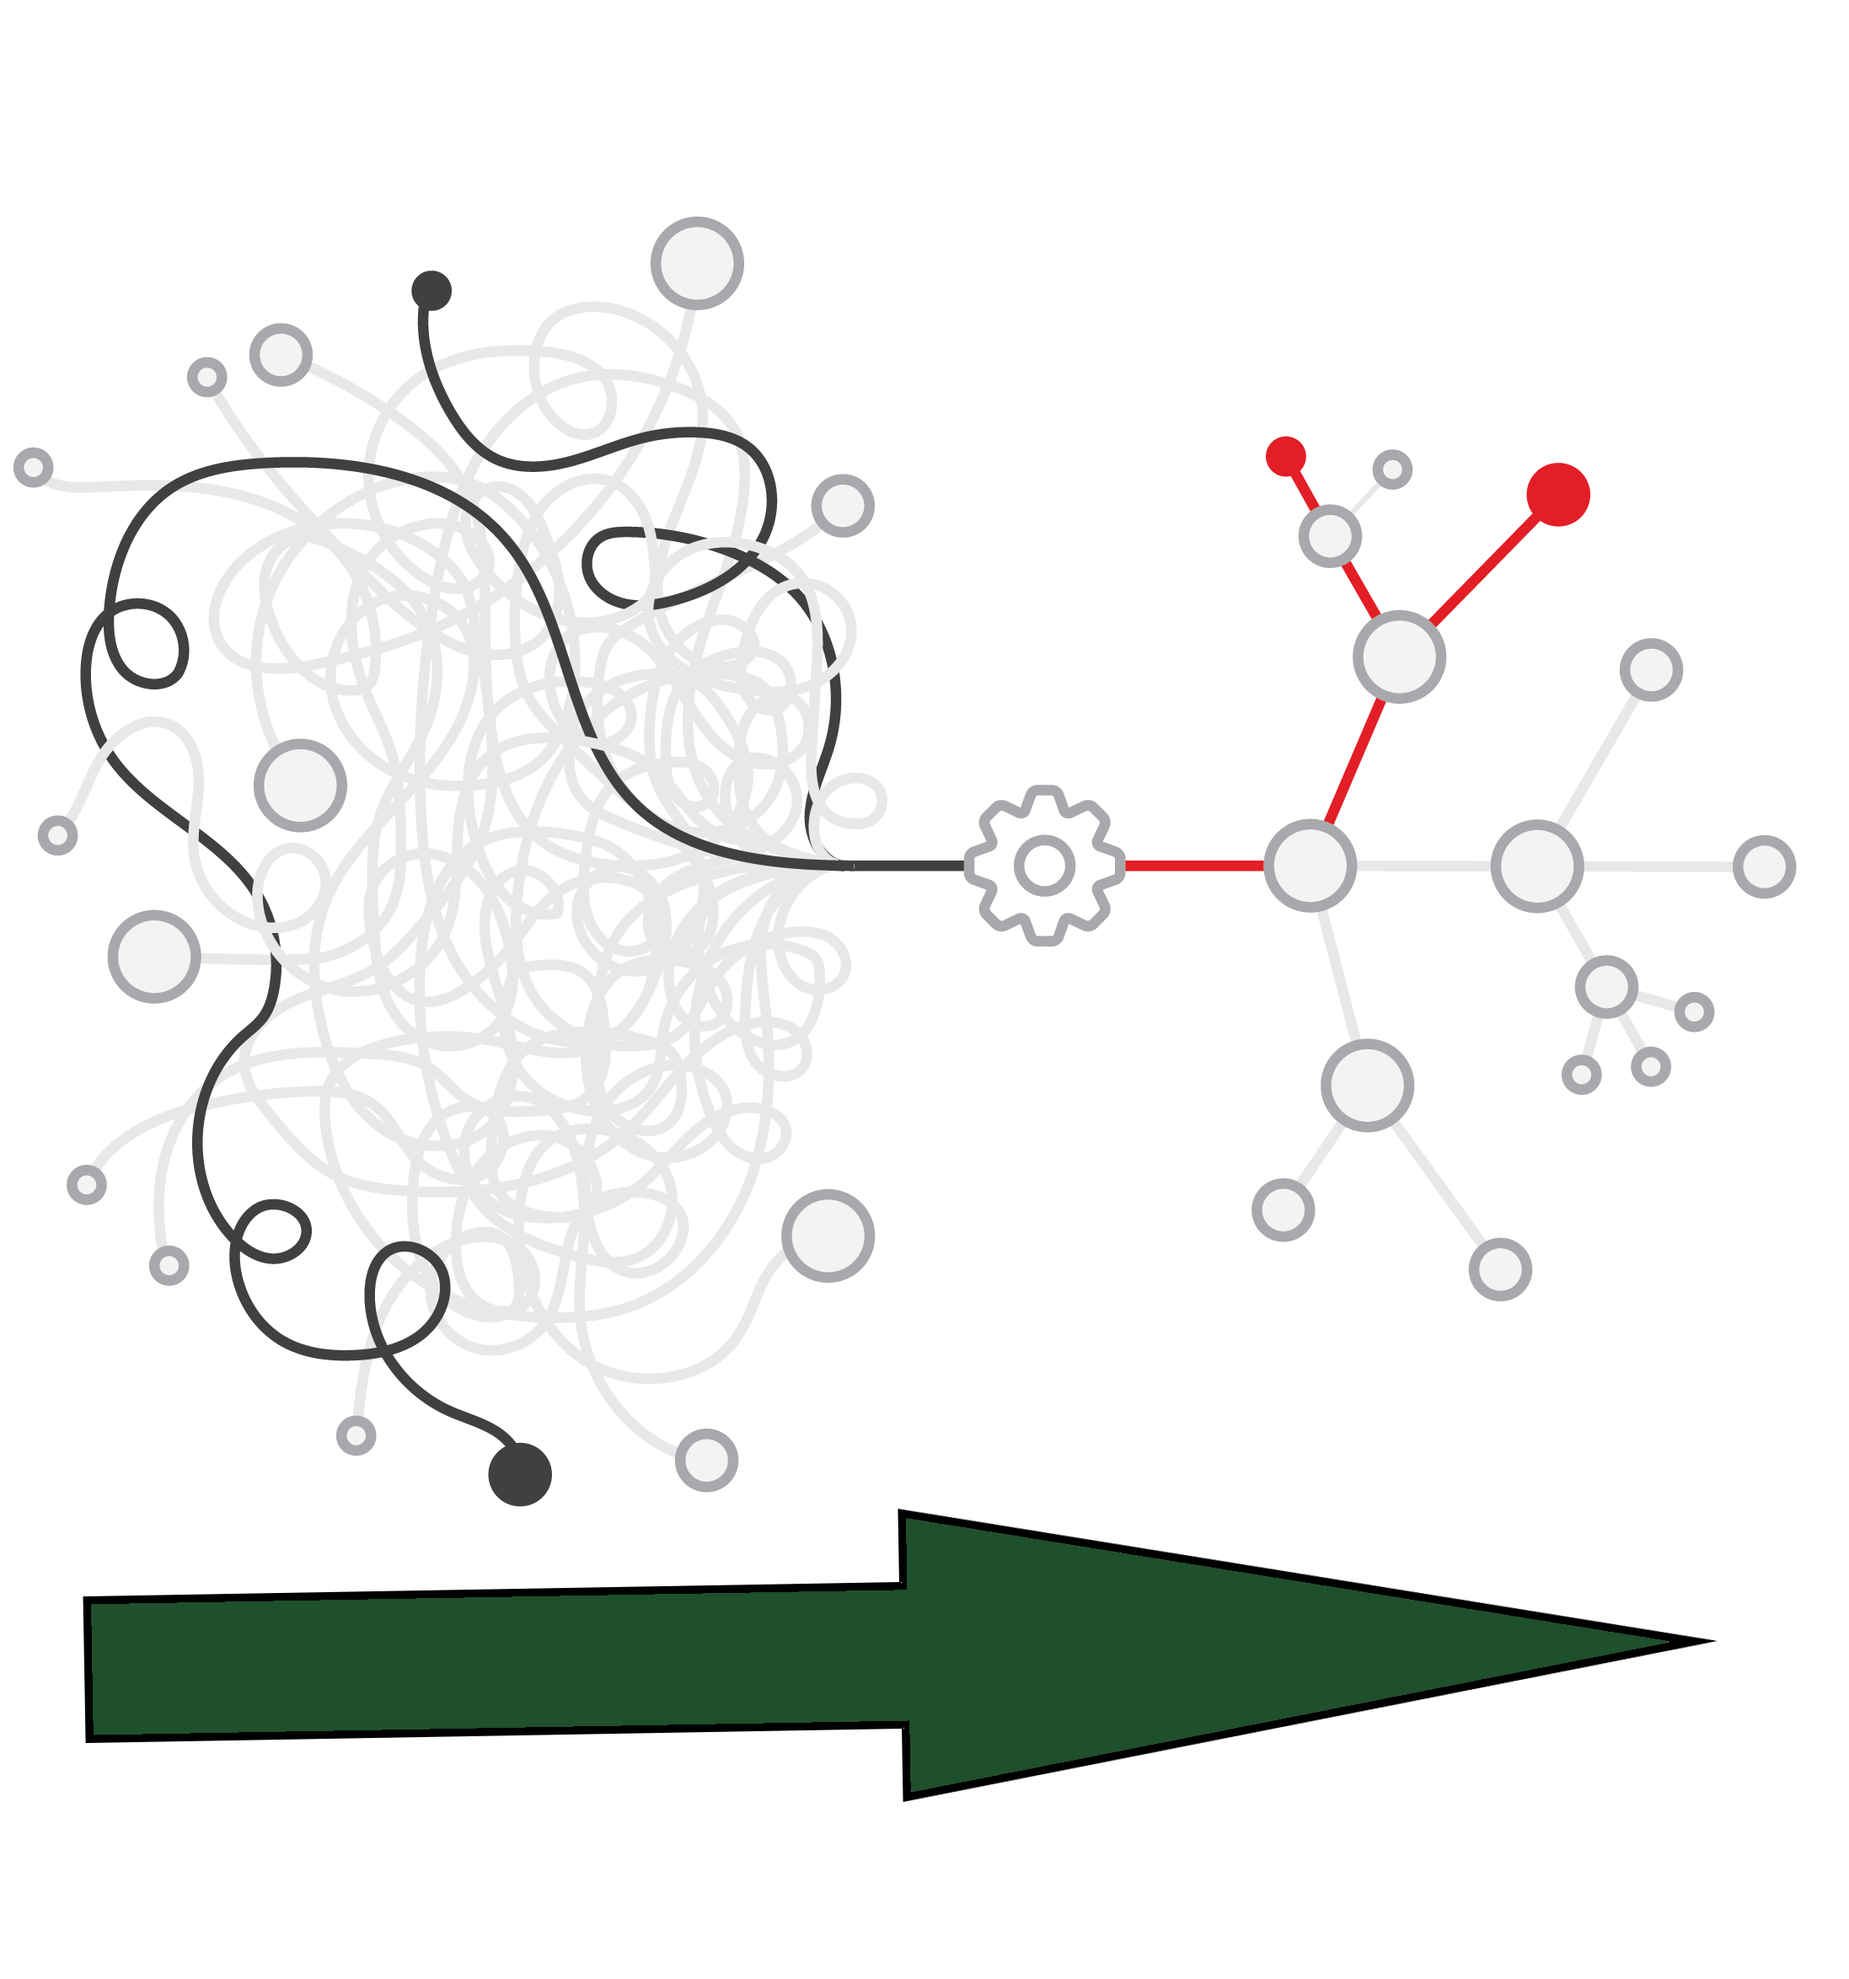
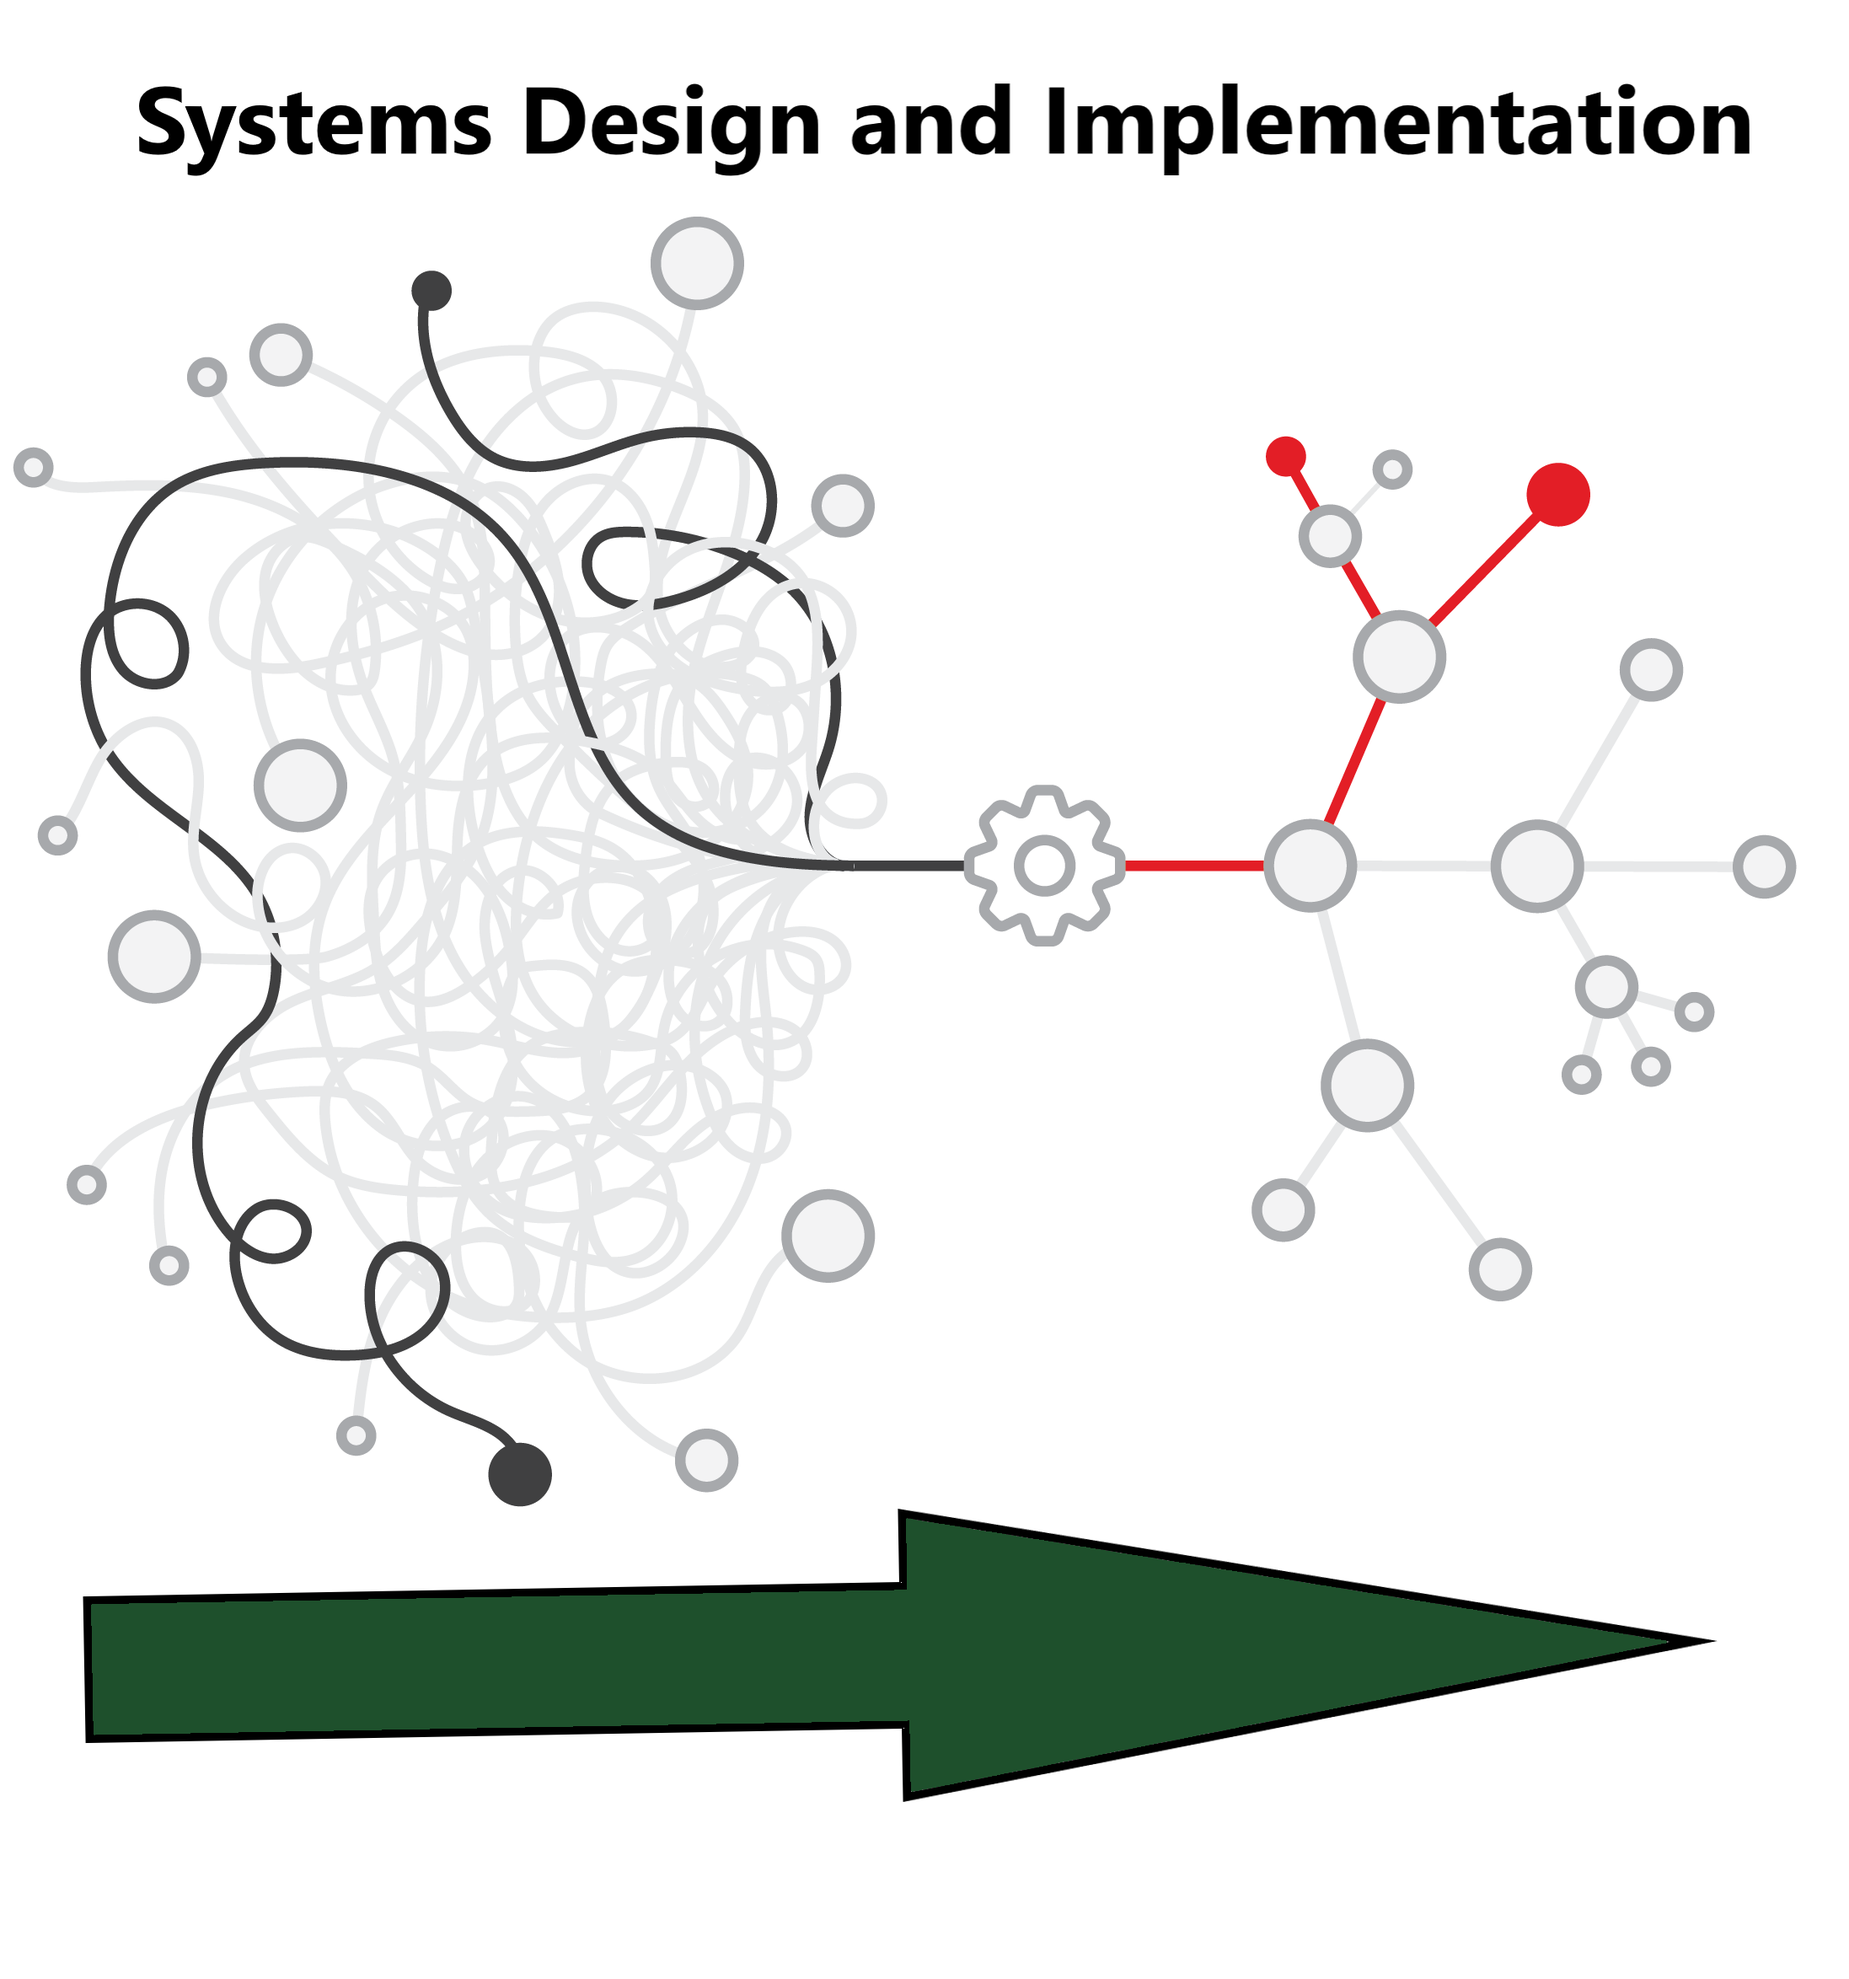
porfolio

Changed region(s): [[0.062, 0.0311, 0.9608, 0.0933]]

diff --git a/index.html b/index.html
@@ -294,9 +294,9 @@
         <div class="container text-center">
           <div class="row">
             <div class="col-lg-8 mx-auto">
-              <h2 class="text-secondary text-uppercase mb-0">Business: Analysis, Planning, & Growth</h2>
-              <hr class="star-dark mb-5">
               <img class="img-fluid mb-5" src="img/portfolio/business-people-group.png" alt="">
+              <h2 class="text-secondary text-uppercase mb-0">Analysis, Planning, & Growth</h2>
+              <hr class="star-dark mb-5">
 <!--              <img class="img-fluid mb-5" src="img/portfolio/cabin.png" alt=""> -->
               <p class="mb-5">Ideation - Startup Organization Planning & Funding - Legal & Regulatory Issues - Commercial & Competitive Environment 
                   -	Management, Resources, & Processes, Design & Planning -	Financing & Accounting -	Market & Marketing 
@@ -319,9 +319,9 @@
         <div class="container text-center">
           <div class="row">
             <div class="col-lg-8 mx-auto">
+              <img class="img-fluid mb-5" src="img/portfolio/Spaghetti_Rules_Or_Business_Rules.png" alt="">
               <h2 class="text-secondary text-uppercase mb-0">Systems Design and Implementation</h2>
               <hr class="star-dark mb-5">
-              <img class="img-fluid mb-5" src="img/portfolio/Spaghetti_Rules_Or_Business_Rules.png" alt="">
               <p class="mb-5">Off-the-Shelf vs. Custom - Build-Your-Own - Systems Integration - Safety & Security
                 - Migration & Integration Planning & Implementation - DataBase Design - REST APIs - Infrastructure Issues 
                 -	Cloud Migration Planning & Execution 
@@ -344,9 +344,9 @@
         <div class="container text-center">
           <div class="row">
             <div class="col-lg-8 mx-auto">
-              <h2 class="text-secondary text-uppercase mb-0">PDF File Preparation and Manipulation Services</h2>
-              <hr class="star-dark mb-5">
               <img class="img-fluid mb-5" src="img/portfolio/Pdf_by_mimooh.png" alt="">
+              <h2 class="text-secondary text-uppercase mb-0">File Preparation & Manipulation Services</h2>
+              <hr class="star-dark mb-5">
               <p class="mb-5">PDF File Size Reduction - PDF File Conversions - PDF Pass Wording 
                   -	Archives - Document Management</p>
               <a class="btn btn-primary btn-lg rounded-pill portfolio-modal-dismiss" href="#">
@@ -391,9 +391,9 @@
         <div class="container text-center">
           <div class="row">
             <div class="col-lg-8 mx-auto">
-              <h2 class="text-secondary text-uppercase mb-0">Ongoing Projects/Technologies</h2>
-              <hr class="star-dark mb-5">
               <img class="img-fluid mb-5" src="img/portfolio/increase-3172502_1920.png" alt="">
+              <h2 class="text-secondary text-uppercase mb-0">Projects & Technologies</h2>
+              <hr class="star-dark mb-5">
               <p class="mb-5">Internet of Things Eco Structure - Image Search - Optical Character Recognition (OCR)</p>
               <a class="btn btn-primary btn-lg rounded-pill portfolio-modal-dismiss" href="#">
                 <i class="fa fa-close"></i>
